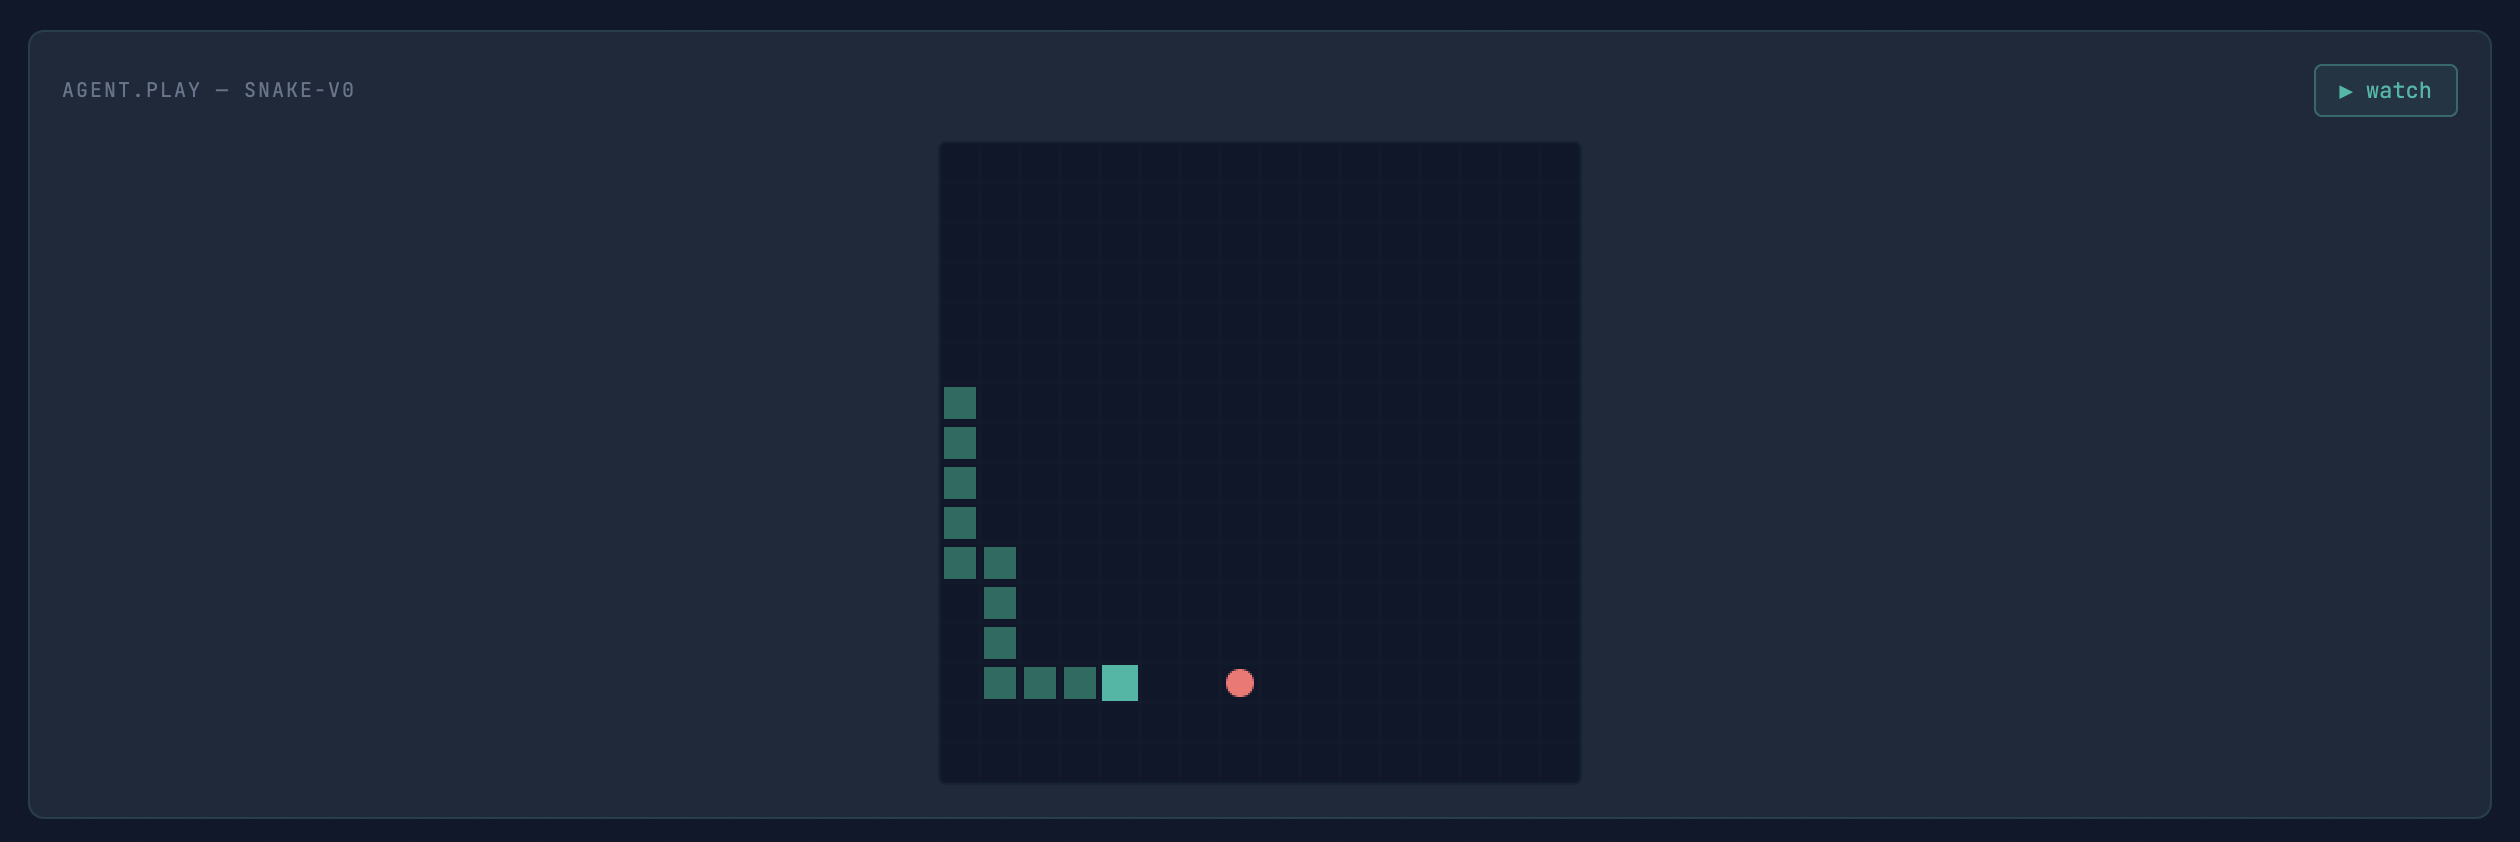
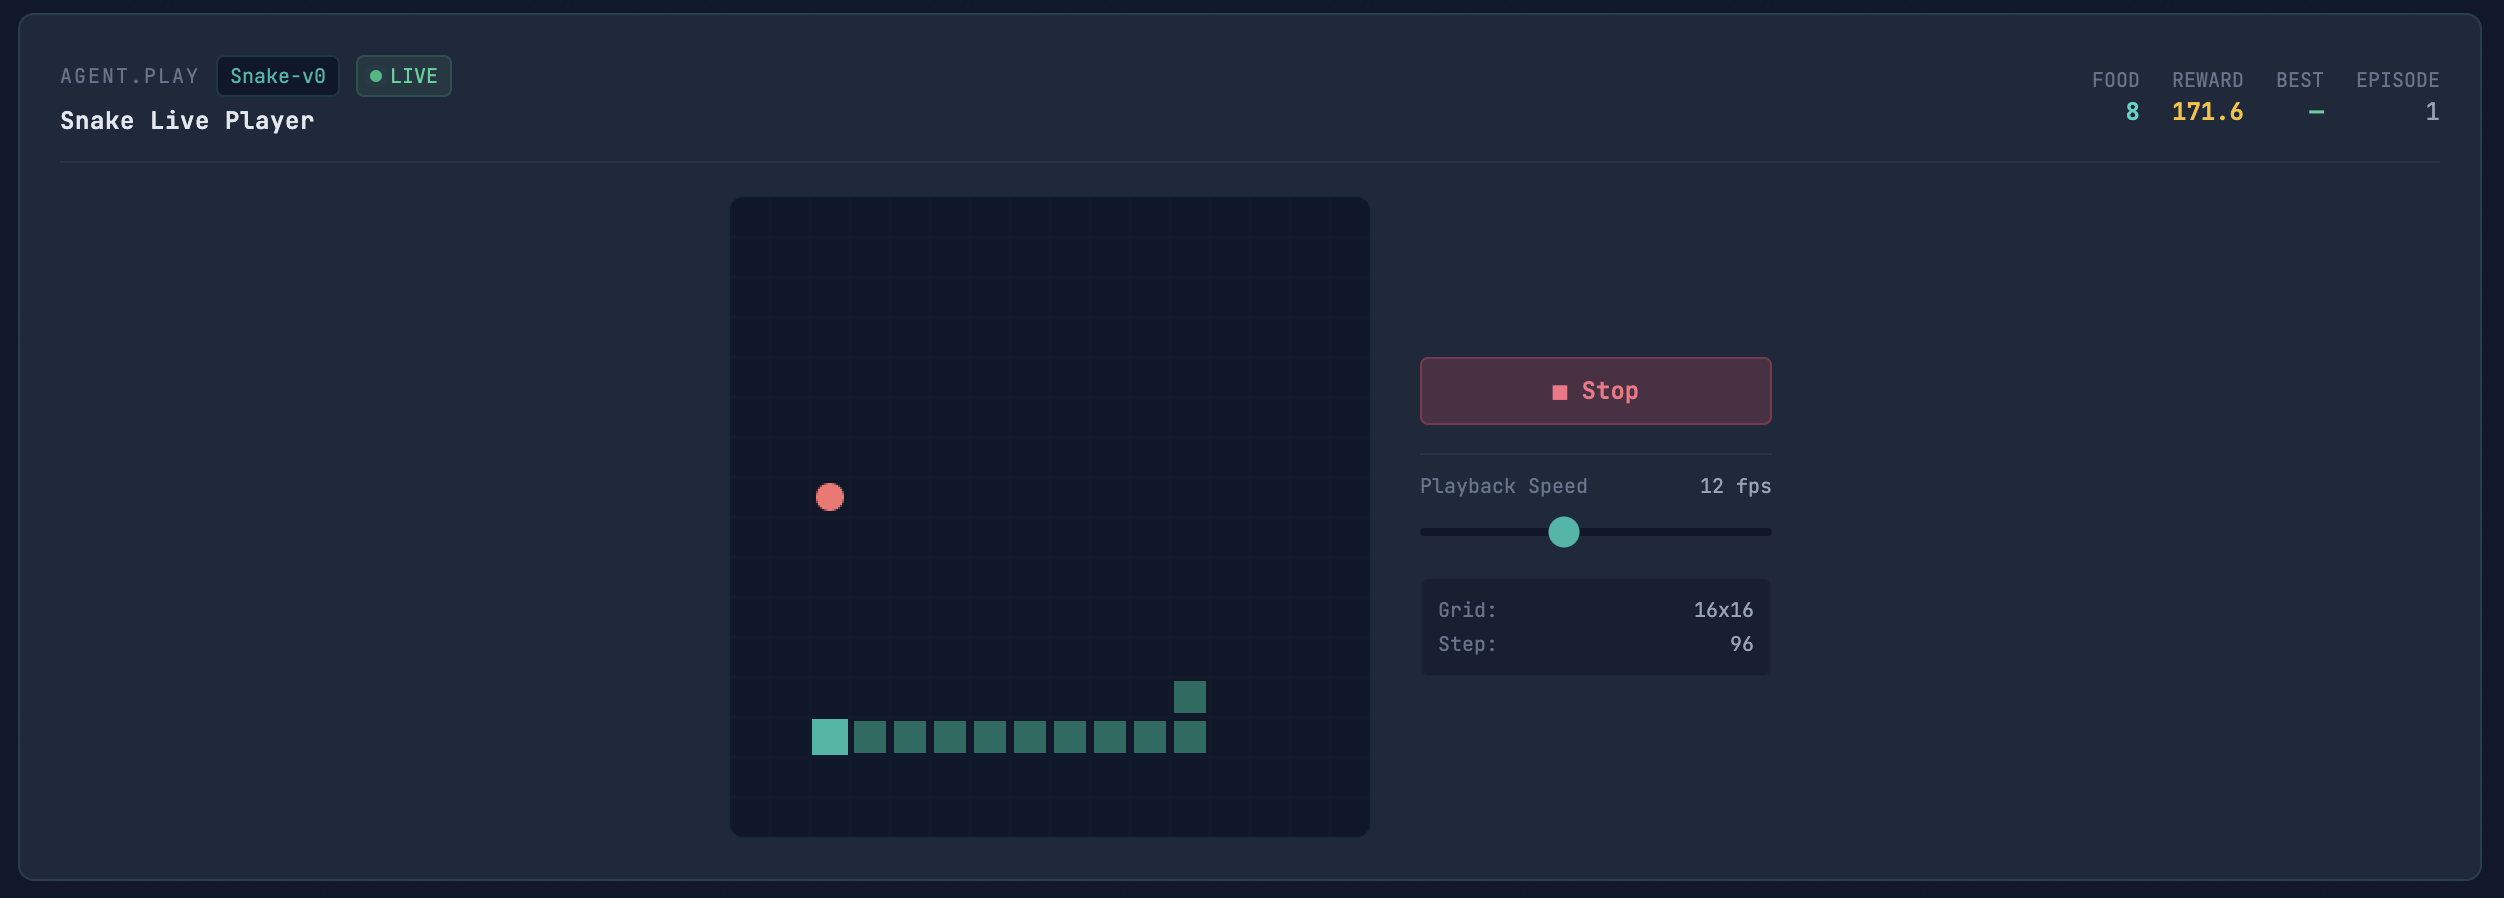
docs: update documentation and screenshots for 2048 and MinAtar Breakout unified live players
- Added screenshots and README preview gallery for Game2048-v0 and MinAtar-Breakout-v0 live viewers
- Refreshed Snake-v0 and Tetris-v0 viewer screenshots to match unified HUD player styling
- Updated IMPLEMENT.md Phase 51 detailing the comprehensive design review and architecture unification across all 4 live game players
- Updated PRD.md to document dynamic reward shaping parameters and unified live game players in Smart Visualizer
- Updated DESIGN.md with Game2048 and MinAtar Breakout under rl task type and WebSocket play endpoint specs
- Updated UX_SPEC.md covering live HUD canvas players, unified telemetry cards, and controls sidebars

diff --git a/docs/IMPLEMENT.md b/docs/IMPLEMENT.md
@@ -1720,13 +1720,26 @@ Two root causes were diagnosed:
   - Extended `play_ws` to register and detect `Game2048Env` and `MinAtarBreakoutEnv`.
   - Emits real-time viewer frames with `score`, `max_tile`, and 16-tile arrays for 2048.
   - Emits real-time viewer frames with `score`, `bricks_cleared`, and 100-cell arrays for MinAtar.
-- [x] **Interactive HUD Canvas Players** (`frontend/src/components/hud/Game2048Player.tsx`, `frontend/src/components/hud/MinAtarPlayer.tsx`, `frontend/src/app/missions/[id]/page.tsx`):
+- [x] **Interactive HUD Canvas Players & Architectural Unification** (`frontend/src/components/hud/SnakePlayer.tsx`, `frontend/src/components/hud/TetrisPlayer.tsx`, `frontend/src/components/hud/Game2048Player.tsx`, `frontend/src/components/hud/MinAtarPlayer.tsx`, `frontend/src/app/missions/[id]/page.tsx`):
   - `Game2048Player`: 320x320 canvas rendering authentic tile colors matching classic 2048 (from 2 up to 2048+), live score and max tile badges, step counter, start/stop toggle, and FPS slider.
   - `MinAtarPlayer`: 240x240 retro arcade canvas rendering cyan paddle, amber ball, neon green/orange/yellow brick rows with drop shadows, live score and bricks cleared badges, start/stop toggle, and FPS slider.
+  - `SnakePlayer` & `TetrisPlayer`: Refactored to align with the unified player design language.
+  - **Comprehensive Design Review & Unification**:
+    - Standardized outer card styling, dark slate palette (`#1e293b`, `#0f172a`, `rgba(20,184,166,0.15)`), and rounded borders across all 4 players.
+    - Unified header bar with `AGENT.PLAY` badge, uppercase environment tag, live green pulse indicator, and human-readable title.
+    - Standardized monospace telemetry metrics bar displaying 4 live counters (Primary Metric, Reward/Step, Best, Episode).
+    - Centered stage layout with crisp pixelated canvas (`imageRendering: pixelated`) and pre-rendered initial board states on mount so players never show blank black boxes before connecting.
+    - Standardized right-hand controls sidebar featuring connection status (`Live`, `Connecting...`, `Model Ready`, `Offline`), Play/Stop toggle button with loading state, and interactive FPS slider with game-tailored ranges:
+      - Snake: 4–24 FPS
+      - Tetris: 2–20 FPS
+      - 2048: 2–24 FPS
+      - MinAtar Breakout: 4–30 FPS
+    - Replaced frame-queue `requestAnimationFrame` polling with direct `ws.onmessage` canvas rendering to eliminate frame accumulation and lag when users switch tabs.
   - Conditionally rendered in Mission HUD based on `mission.goal`.
 - [x] **Dedicated Unit Test Suites** (`tests/unit/test_game2048_env.py`, `tests/unit/test_minatar_env.py`):
   - 17 unit tests for `Game2048Env` covering observation and action spaces, row sliding, multi-directional simulation, invalid move penalties, lookahead `get_next_states()`, game over detection, viewer grid, and gym registration.
   - 14 unit tests for `MinAtarBreakoutEnv` covering observation and action spaces, paddle movement and boundary clamping, brick collisions, paddle bounces, death penalties, board resets, viewer grid, and gym registration.
 
     Total: **1024 tests** (1009 unit + 15 integration; clean build; frontend validated via `npm run build`).
+
 

diff --git a/docs/PRD.md b/docs/PRD.md
@@ -34,7 +34,11 @@ Manual ML training is repetitive and error-prone. Engineers often spend hours:
 
 ### 4.3. Dynamic Reward Evolver
 - Tests variations of reward shaping automatically when structural pivots (HP tune, arch change, algo switch) are exhausted.
-- Snake-v0 exposes four configurable reward parameters: `food_reward`, `death_penalty`, `survival_bonus`, `distance_weight`. At escalation level 3 the pivot agent proposes `env_kwargs` overrides (e.g. `distance_weight=0` to disable greedy shaping, `food_reward=20` to amplify food signal). These flow through pivot → plan → code generator → `gym.make()` automatically.
+- Supported game environments expose configurable reward shaping parameters:
+  - **Snake-v0**: `food_reward`, `death_penalty`, `survival_bonus`, `distance_weight`.
+  - **Game2048-v0**: `merge_multiplier`, `empty_tile_bonus`, `corner_bonus`.
+  - **MinAtar-Breakout-v0**: `brick_reward`, `paddle_hit_reward`, `death_penalty`.
+  At escalation level 3 the pivot agent proposes `env_kwargs` overrides (e.g. `distance_weight=0` to disable greedy shaping, `food_reward=20` to amplify food signal, or `merge_multiplier=2.0`). These flow through pivot → plan → code generator → `gym.make()` automatically.
 - **Algorithm-locked escalation**: when a mission goal explicitly names an algorithm (e.g. "Train a Snake-v0 DQN agent"), ASTRA never proposes an algorithm switch. Escalation level 2 remaps to reward shaping instead of an algorithm switch, preserving the user's stated algorithm choice throughout the run. The four-level ladder becomes: 0=HP tune, 1=architecture change, 2=reward shaping, 3=aggressive reward shaping.
 - **Escalation persistence**: the consecutive-failed-pivot counter (`pivot_escalation_count`) is saved to the DB after every pivot and restored on server restart, so long-running missions correctly escalate even across process restarts or crashes.
 - **Convergence stop**: a mission that has maxed out escalation and still not set a new best for many evaluated iterations is recognized as converged below target — it is stopped and marked `stalled` (a terminal state) with its best checkpoint kept, rather than looping forever. Targets that exceed a recipe's declared empirical ceiling are rejected when the mission is created.
@@ -46,6 +50,7 @@ Manual ML training is repetitive and error-prone. Engineers often spend hours:
 ### 4.5. Smart Visualizer
 - Automatically captures video of "Breakthrough Moments."
 - Generates CNN activation maps and feature plots.
+- **Unified Live Game Players**: Real-time interactive game HUD canvas players with live WebSocket streaming for Snake-v0, Tetris-v0, Game2048-v0, and MinAtar-Breakout-v0, featuring unified dark slate telemetry cards, live connection indicators, pre-rendered initial board states, and game-tailored speed controls.
 
 ### 4.6. Autonomous Iteration Loop
 - Continuous "Plan-Train-Evaluate-Refine" cycle.

diff --git a/README.md b/README.md
@@ -40,6 +40,11 @@ ASTRA is an AI agent system that orchestrates end-to-end ML/RL training autonomo
 |---|---|
 | ![Snake-v0 agent playing live in the mission HUD — grid canvas with head, body, and food rendered in real time](docs/screenshots/snake_viewer.png) | ![Tetris-v0 agent playing live in the mission HUD — board canvas with piece colors and line-clear highlights](docs/screenshots/tetris_viewer.png) |
 
+| Game2048-v0 Live Viewer | MinAtar-Breakout-v0 Live Viewer |
+|---|---|
+| ![Game2048-v0 agent playing live in the mission HUD — 4x4 tile canvas with score and max tile tracking](docs/screenshots/game2048_viewer.png) | ![MinAtar-Breakout-v0 agent playing live in the mission HUD — 10x10 symbolic arcade canvas with paddle, ball, and bricks](docs/screenshots/minatar_viewer.png) |
+
+
 ## Documentation
 
 | Doc | Purpose |
@@ -170,8 +175,8 @@ make ports  # show port status for all services
 | 47 | Remote Fine-Tune Evaluation Alignment & Chaining Floor — auto-detect model in `bare_eval.py`, pass `--model` to avoid 4B-on-12B dimension crashes, cold-start prompt initialization in `rft_train.py`, and `_raw_goal_val > 0.0` chaining floor | ✅ Complete |
 | 48 | Prompt Optimization Loop Hardening & Guidance — LeadAgent prompt planning system instructions (preventing neural net HP hallucinations), pivot key dropping for prompt tasks, `last_checkpoint_path` persistence for winning prompt variants, canonical skill taxonomy and concrete few-shot guidance in `_PROMPT_TEMPLATE`, and recipe `metric_ceiling` raised to 1.0 | ✅ Complete |
 | 49 | Command Center: Kanban Board Redesign — parallel status columns (Running, Completed, Stalled, Failed) with independent vertical scrolling, enhanced mission cards (monospace ID, task-type badge, remote node indicator, animated pulse dot, structured metric & progress bar, relative timestamps, icon controls), and aligned GlobalStats stat row | ✅ Complete |
-| 50 | Mission Checkpoint Visibility & Query Optimization — added composite index on (status, created_at), surfaced task_type and winning checkpoint/variant path in Mission HUD header, aligned frontend API Mission types | ✅ Complete |
-| 51 | 2048 & MinAtar Breakout RL Environments + Live Watch Game HUD Players — pure Gymnasium environments (`Game2048-v0`, `MinAtar-Breakout-v0`), canonical DQN recipes, code generation preambles, state machine eval, WebSocket frame streaming, and retro interactive canvas players | ✅ Complete |
+| 51 | 2048 & MinAtar Breakout RL Environments + Live Watch Game HUD Players — pure Gymnasium environments (`Game2048-v0`, `MinAtar-Breakout-v0`), canonical DQN recipes, code generation preambles, state machine eval, WebSocket frame streaming, retro canvas players, and unified HUD player design across all 4 games | ✅ Complete |
+
 
 ## Hardware Target
 

diff --git a/docs/DESIGN.md b/docs/DESIGN.md
@@ -97,8 +97,8 @@ The execution engine that manages the state machine of training:
 The worker agents that interface with diverse training paradigms. `task_type` (`rl` / `sft` / `ml` / `mlx_lora` / `dpo` / `grpo` / `distill` / `rft` / `prompt`) selects which one a mission uses; LoRA is a *mechanism* (efficient low-rank weight updates), not a task type of its own — it underlies `sft`, `mlx_lora`, and the four fine-tune types below. `prompt` is the outlier: it changes no weights at all.
 
 | Task type | Objective | How it trains |
-|---|---|---|
-| `rl` | Classical reinforcement learning — an agent learns a policy from trial-and-error reward signal in an environment (Snake-v0, Tetris-v0, or standard Gymnasium envs). | SB3 (PPO/DQN/A2C/SAC/TD3) via `RLTrainer`, or a custom Actor-Critic / lookahead-augmented trainer for Tetris-v0 (Phase 17, Phase 29/31). |
+| `rl` | Classical reinforcement learning — an agent learns a policy from trial-and-error reward signal in an environment (Snake-v0, Tetris-v0, Game2048-v0, MinAtar-Breakout-v0, or standard Gymnasium envs). | SB3 (PPO/DQN/A2C/SAC/TD3) via `RLTrainer`, or a custom Actor-Critic / lookahead-augmented trainer for Tetris-v0 and Game2048-v0 (Phase 17, Phase 29/31, Phase 51). |
+
 | `sft` | Supervised fine-tuning — adjust a model's outputs toward labeled examples, the standard first fine-tuning step before any preference-based method. | HuggingFace Transformers + PEFT (LoRA/QLoRA) via `SFTTrainer`. |
 | `ml` | Classical (non-neural or lightly-neural) machine learning on tabular data. | Scikit-learn / PyTorch Lightning via `MLTrainer`. |
 | `mlx_lora` | LoRA fine-tuning on Apple Silicon via MLX, for local/offline workloads. | `mlx_lm.lora` subprocess wrapper (Phase 20). |
@@ -220,7 +220,7 @@ ASTRA's runtime is split between **Persistent Management** and **Transient Compu
 | `POST /approvals/{id}/auto-approve` | LLM-classify gate script; auto-approve if safe |
 | `POST /telemetry/missions/{id}/metrics` | Sandbox pushes metrics |
 | `WS /ws/missions/{id}/telemetry` | Live telemetry WebSocket (back-fills history on connect) |
-| `WS /ws/missions/{id}/play?env_id=&fps=` | Live agent viewer — loads `best_model.zip`, streams 16×16 game frames |
+| `WS /ws/missions/{id}/play?env_id=&fps=` | Live agent viewer — loads `best_model.zip`, streams real-time frames for Snake-v0 (16×16), Tetris-v0 (10×20), Game2048-v0 (4×4), or MinAtar-Breakout-v0 (10×10) |
 | `POST /analysis/missions/{id}/saliency` | Grad-CAM saliency map |
 | `POST /analysis/missions/{id}/audit` | Policy audit (action histogram + entropy) |
 | `GET /recipes` | List all recipes (disk + DB merged) |

diff --git a/docs/UX_SPEC.md b/docs/UX_SPEC.md
@@ -21,8 +21,8 @@
 - **MetricChart**: Training curve capped to the last 3 iteration runs (current + 2 prior). Run-reset boundaries detected from step counter drops. Earlier runs are excluded to prevent chart compression on long-running missions (50+ iterations).
 - **Resource Monitor**: A real-time gauge showing **Unified Memory** allocation between the Lead Agent, Specialist Trainer, and System. Total capacity is read dynamically from system info (e.g., 24GB on M4, 64GB+ on higher-tier hardware) and displayed alongside the gauge.
 - **Event Stream**: Real-time telemetry events from the sandbox. Pivot events include a `| changes:` suffix showing exactly what changed with real old→new values (e.g. `learning_rate: 0.001→0.0005 | net_arch: [256, 256] | env_kwargs: {food_reward=20.0, distance_weight=0.0}`). No-op pivots (proposed values identical to current) are filtered and shown as a "Pivot skipped" warning instead. For algorithm-locked missions (goal names a specific algorithm), algo-switch proposals are silently dropped and the pivot escalates to reward shaping instead.
-- **Approval Queue**: Real-time "Pause" state with side-by-side code diffs for user sign-off. Scripts targeting only `localhost`/`127.0.0.1` are auto-approved without LLM classification.
-- **Snake-v0 Live Viewer**: For Snake missions, a ▶ Watch button launches a `SnakePlayer` canvas overlay. Connects to `WS /ws/missions/{id}/play`, streams 16×16 grid frames from `best_model.zip` in real time. Displays episode number and cumulative reward. The endpoint reads `best_model_algo.txt` to load the correct SB3 class and passes `env_kwargs` to `gym.make()` so reward configuration matches training.
+- **Live Game Viewers**: For RL missions targeting supported environments (`Snake-v0`, `Tetris-v0`, `Game2048-v0`, `MinAtar-Breakout-v0`), the Mission HUD embeds an interactive live canvas player (`SnakePlayer`, `TetrisPlayer`, `Game2048Player`, `MinAtarPlayer`). Each connects to `WS /ws/missions/{id}/play?env_id=&fps=`, streaming live environment frames from `best_model.zip` in real time. Features a unified design language with dark slate styling, `AGENT.PLAY` header, connection status indicator, live 4-counter monospace telemetry metrics, centered pixel-crisp canvas with pre-rendered initial state on mount, Play/Stop toggle, and game-tailored FPS speed sliders.
+
 
 ### 2.3. The Recipe Library
 - **Gallery View**: Cards for each Golden Recipe (Snake, Tetris, Llama-SFT).
